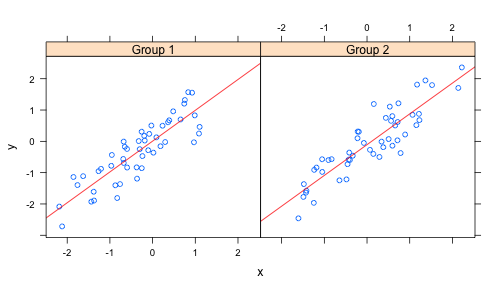
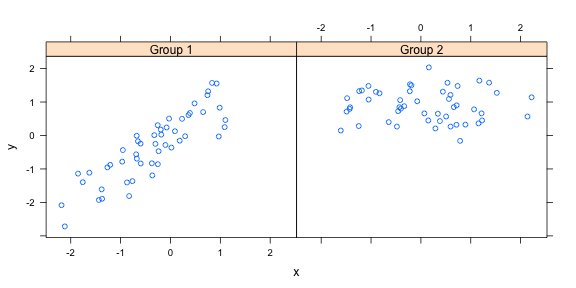
Update lattice lecture

diff --git a/04_ExploratoryAnalysis/Plotting Lattice/index.html b/04_ExploratoryAnalysis/Plotting Lattice/index.html
@@ -171,12 +171,12 @@ one critical way.</p>
 <ul>
 <li><p>Base graphics functions plot data directly to the graphics device
 (screen, PDF file, etc.)</p></li>
-<li><p>Lattice graphics functions return an object of class <code>trellis</code></p></li>
+<li><p>Lattice graphics functions return an object of class <strong>trellis</strong></p></li>
 <li><p>The print methods for lattice functions actually do the work of
 plotting the data on the graphics device.</p></li>
 <li><p>Lattice functions return &quot;plot objects&quot; that can, in principle, be
 stored (but it’s usually better to just save the code + data).</p></li>
-<li><p>On the command line, trellis objects are <code>auto-printed</code> so that it
+<li><p>On the command line, trellis objects are <em>auto-printed</em> so that it
 appears the function is plotting the data</p></li>
 </ul>
 
@@ -186,20 +186,17 @@ appears the function is plotting the data</p></li>
 
       <slide class="" id="slide-7" style="background:;">
   <hgroup>
-    <h2>Lattice Panel Functions</h2>
+    <h2>Lattice Behavior</h2>
   </hgroup>
   <article>
-    <p>Lattice functions have a <strong>panel function</strong> which controls what
-happens inside each panel of the plot.</p>
-
-<pre><code class="r">set.seed(10)
-x &lt;- rnorm(100)
-y &lt;- x + rnorm(100, sd = 0.5)
-f &lt;- gl(2, 50, labels = c(&quot;Group 1&quot;, &quot;Group 2&quot;))
-xyplot(y ~ x | f, layout = c(2, 1))
+    <pre><code class="r">p &lt;- xyplot(Ozone ~ Wind, data = airquality)  ## Nothing happens!
+print(p)  ## Plot appears
 </code></pre>
 
 <p><img src="figure/unnamed-chunk-3.png" alt="plot of chunk unnamed-chunk-3"> </p>
+
+<pre><code class="r">xyplot(Ozone ~ Wind, data = airquality)  ## Auto-printing
+</code></pre>
 
   </article>
   <!-- Presenter Notes -->
@@ -210,16 +207,15 @@ xyplot(y ~ x | f, layout = c(2, 1))
     <h2>Lattice Panel Functions</h2>
   </hgroup>
   <article>
-    <pre><code class="r">xyplot(y ~ x | f, panel = function(x, y, ...) {
-    panel.xyplot(x, y, ...)
-    panel.abline(h = median(y), lty = 2)
-})
-</code></pre>
-
-<p><img src="figure/unnamed-chunk-4.png" alt="plot of chunk unnamed-chunk-4"> </p>
-
-<p>plots y vs. x conditioned on f with horizontal (dashed) line drawn at
-the median of y for each panel.</p>
+    <ul>
+<li><p>Lattice functions have a <strong>panel function</strong> which controls what
+happens inside each panel of the plot.</p></li>
+<li><p>The <em>lattice</em> package comes with default panel functions, but you
+can supply your own if you want to customize what happens in each
+panel</p></li>
+<li><p>Panel functions receive the x/y coordinates of the data points
+in their panel (along with any optional arguments)</p></li>
+</ul>
 
   </article>
   <!-- Presenter Notes -->
@@ -227,18 +223,85 @@ the median of y for each panel.</p>
 
       <slide class="" id="slide-9" style="background:;">
   <hgroup>
-    <h2>Lattice Panel Functions: Regression line</h2>
+    <h2>Lattice Panel Functions</h2>
   </hgroup>
   <article>
-    <pre><code class="r">xyplot(y ~ x | f, panel = function(x, y, ...) {
-    panel.xyplot(x, y, ...)
-    panel.lmline(x, y, col = 2)
-})
+    <pre><code class="r">set.seed(10)
+x &lt;- rnorm(100)
+f &lt;- rep(0:1, each = 50)
+y &lt;- x + f - f * x + rnorm(100, sd = 0.5)
+f &lt;- factor(f, labels = c(&quot;Group 1&quot;, &quot;Group 2&quot;))
+xyplot(y ~ x | f, layout = c(2, 1))  ## Plot with 2 panels
 </code></pre>
 
 <p><img src="figure/unnamed-chunk-5.png" alt="plot of chunk unnamed-chunk-5"> </p>
 
-<p>fits and plots a simple linear regression line to each panel of the plot.</p>
+  </article>
+  <!-- Presenter Notes -->
+</slide>
+
+      <slide class="" id="slide-10" style="background:;">
+  <hgroup>
+    <h2>Lattice Panel Functions</h2>
+  </hgroup>
+  <article>
+    <pre><code class="r">## Custom panel function
+xyplot(y ~ x | f, panel = function(x, y, ...) {
+    panel.xyplot(x, y, ...)  ## First call the default panel function for &#39;xyplot&#39;
+    panel.abline(h = median(y), lty = 2)  ## Add a horizontal line at the median
+})
+</code></pre>
+
+<p><img src="figure/unnamed-chunk-6.png" alt="plot of chunk unnamed-chunk-6"> </p>
+
+  </article>
+  <!-- Presenter Notes -->
+</slide>
+
+      <slide class="" id="slide-11" style="background:;">
+  <hgroup>
+    <h2>Lattice Panel Functions: Regression line</h2>
+  </hgroup>
+  <article>
+    <pre><code class="r">## Custom panel function
+xyplot(y ~ x | f, panel = function(x, y, ...) {
+    panel.xyplot(x, y, ...)  ## First call default panel function
+    panel.lmline(x, y, col = 2)  ## Overlay a simple linear regression line
+})
+</code></pre>
+
+<p><img src="figure/unnamed-chunk-7.png" alt="plot of chunk unnamed-chunk-7"> </p>
+
+  </article>
+  <!-- Presenter Notes -->
+</slide>
+
+      <slide class="" id="slide-12" style="background:;">
+  <hgroup>
+    <h2>Many Panel Lattice Plot</h2>
+  </hgroup>
+  <article>
+    <p><img src="figure/unnamed-chunk-8.png" alt="plot of chunk unnamed-chunk-8"> </p>
+
+  </article>
+  <!-- Presenter Notes -->
+</slide>
+
+      <slide class="" id="slide-13" style="background:;">
+  <hgroup>
+    <h2>Summary</h2>
+  </hgroup>
+  <article>
+    <ul>
+<li><p>Lattice plots are constructed with a single function call to a core
+lattice function (e.g. <code>xyplot</code>)</p></li>
+<li><p>Aspects like margins and spacing are automatically handled and
+defaults are usually sufficient</p></li>
+<li><p>The lattice system is ideal for creating conditioning plots where
+you examine the same kind of plot under many different conditions</p></li>
+<li><p>Panel functions can be specified/customized to modify what is
+plotted in each of the plot panels</p></li>
+</ul>
 
   </article>
   <!-- Presenter Notes -->

diff --git a/04_ExploratoryAnalysis/Plotting Lattice/index.md b/04_ExploratoryAnalysis/Plotting Lattice/index.md
@@ -109,7 +109,7 @@ one critical way.
 - Base graphics functions plot data directly to the graphics device
   (screen, PDF file, etc.)
 
-- Lattice graphics functions return an object of class `trellis`
+- Lattice graphics functions return an object of class **trellis**
 
 - The print methods for lattice functions actually do the work of
   plotting the data on the graphics device.
@@ -117,45 +117,74 @@ one critical way.
 - Lattice functions return "plot objects" that can, in principle, be
   stored (but it’s usually better to just save the code + data).
 
-- On the command line, trellis objects are `auto-printed` so that it
+- On the command line, trellis objects are *auto-printed* so that it
   appears the function is plotting the data
 
 ---
 
-## Lattice Panel Functions
-
-Lattice functions have a **panel function** which controls what
-happens inside each panel of the plot.
+## Lattice Behavior
 
 
 ```r
-set.seed(10)
-x <- rnorm(100)
-y <- x + rnorm(100, sd = 0.5)
-f <- gl(2, 50, labels = c("Group 1", "Group 2"))
-xyplot(y ~ x | f, layout = c(2, 1))
+p <- xyplot(Ozone ~ Wind, data = airquality)  ## Nothing happens!
+print(p)  ## Plot appears
 ```
 
 ![plot of chunk unnamed-chunk-3](figure/unnamed-chunk-3.png) 
 
 
+```r
+xyplot(Ozone ~ Wind, data = airquality)  ## Auto-printing
+```
+
+
+---
+
+## Lattice Panel Functions
+
+* Lattice functions have a **panel function** which controls what
+  happens inside each panel of the plot.
+
+* The *lattice* package comes with default panel functions, but you
+  can supply your own if you want to customize what happens in each
+  panel
+
+* Panel functions receive the x/y coordinates of the data points
+  in their panel (along with any optional arguments)
+
+
 ---
 
 ## Lattice Panel Functions
 
 
 ```r
+set.seed(10)
+x <- rnorm(100)
+f <- rep(0:1, each = 50)
+y <- x + f - f * x + rnorm(100, sd = 0.5)
+f <- factor(f, labels = c("Group 1", "Group 2"))
+xyplot(y ~ x | f, layout = c(2, 1))  ## Plot with 2 panels
+```
+
+![plot of chunk unnamed-chunk-5](figure/unnamed-chunk-5.png) 
+
+
+---
+
+## Lattice Panel Functions
+
+
+```r
+## Custom panel function
 xyplot(y ~ x | f, panel = function(x, y, ...) {
-    panel.xyplot(x, y, ...)
-    panel.abline(h = median(y), lty = 2)
+    panel.xyplot(x, y, ...)  ## First call the default panel function for 'xyplot'
+    panel.abline(h = median(y), lty = 2)  ## Add a horizontal line at the median
 })
 ```
 
-![plot of chunk unnamed-chunk-4](figure/unnamed-chunk-4.png) 
+![plot of chunk unnamed-chunk-6](figure/unnamed-chunk-6.png) 
 
-
-plots y vs. x conditioned on f with horizontal (dashed) line drawn at
-the median of y for each panel.
 
 ---
 
@@ -163,13 +192,36 @@ the median of y for each panel.
 
 
 ```r
+## Custom panel function
 xyplot(y ~ x | f, panel = function(x, y, ...) {
-    panel.xyplot(x, y, ...)
-    panel.lmline(x, y, col = 2)
+    panel.xyplot(x, y, ...)  ## First call default panel function
+    panel.lmline(x, y, col = 2)  ## Overlay a simple linear regression line
 })
 ```
 
-![plot of chunk unnamed-chunk-5](figure/unnamed-chunk-5.png) 
+![plot of chunk unnamed-chunk-7](figure/unnamed-chunk-7.png) 
 
 
-fits and plots a simple linear regression line to each panel of the plot.
+---
+
+## Many Panel Lattice Plot
+
+![plot of chunk unnamed-chunk-8](figure/unnamed-chunk-8.png) 
+
+
+---
+
+## Summary
+
+* Lattice plots are constructed with a single function call to a core
+  lattice function (e.g. `xyplot`)
+
+* Aspects like margins and spacing are automatically handled and
+  defaults are usually sufficient
+
+* The lattice system is ideal for creating conditioning plots where
+  you examine the same kind of plot under many different conditions
+
+* Panel functions can be specified/customized to modify what is
+  plotted in each of the plot panels
+
